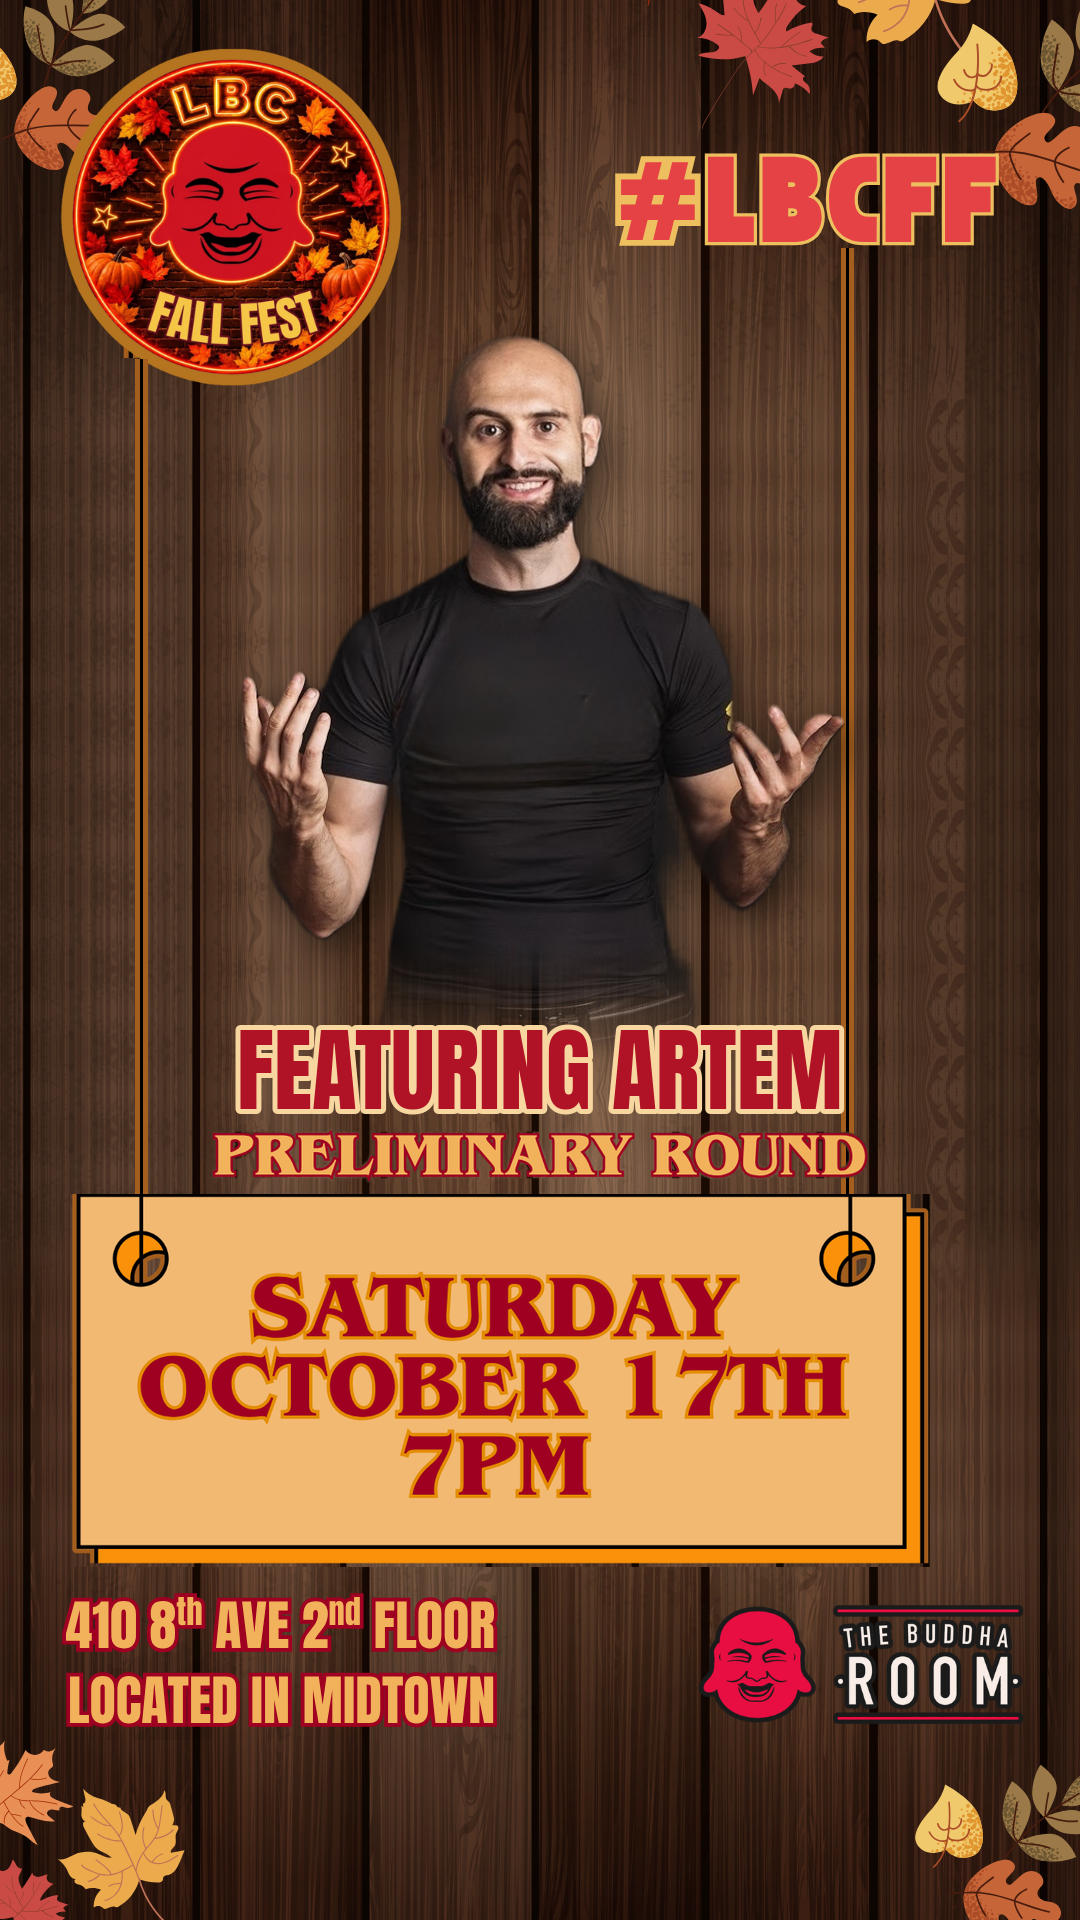
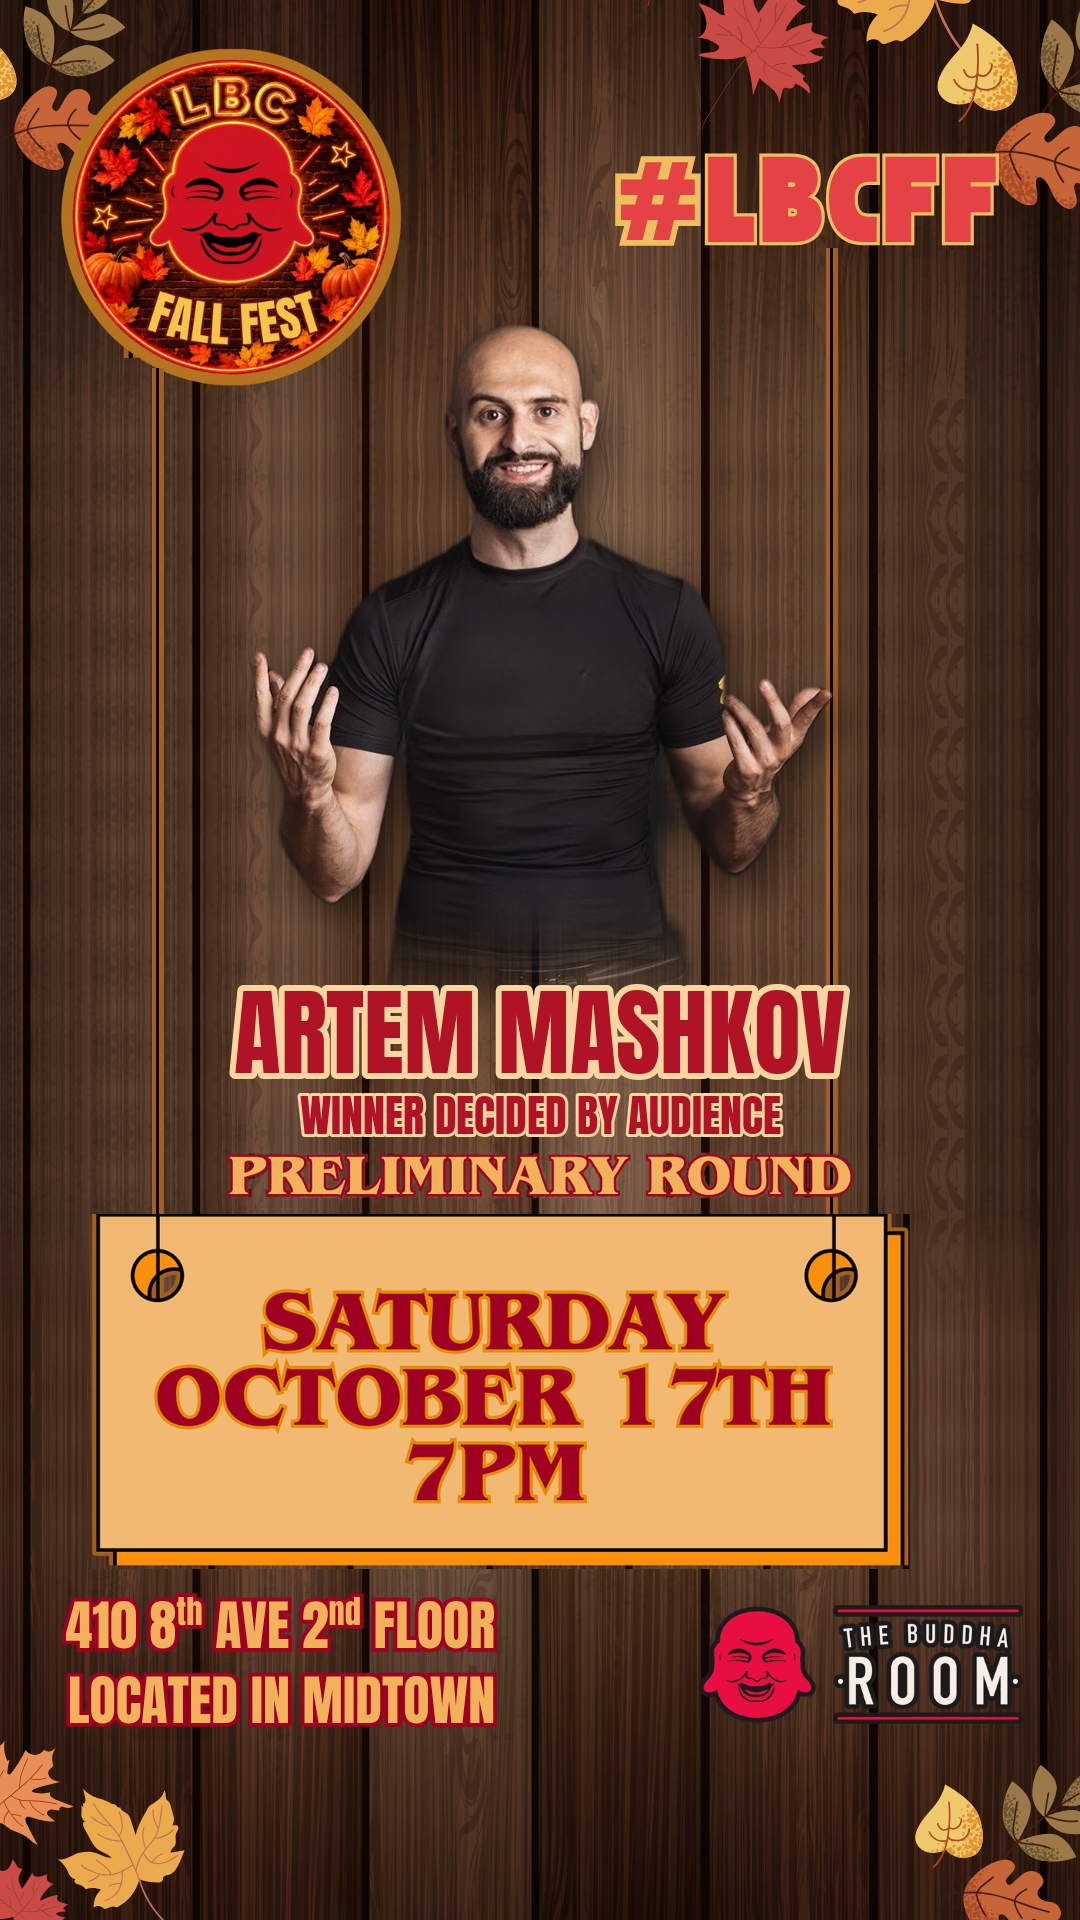
promo: flyer insert shows full name and audience-vote line
Claude-Session: https://claude.ai/code/session_011uqaQVvdk5VdkevmHxQqu7

Changed region(s): [[0.0611, 0.125, 0.8861, 0.8125], [0.3361, 0.1562, 0.6417, 0.3438], [0.4889, 0.375, 0.5194, 0.4062]]

diff --git a/flyer_insert.py b/flyer_insert.py
@@ -12,6 +12,7 @@ HERE = Path(__file__).resolve().parent
 OUT = HERE / "out"
 OUT.mkdir(exist_ok=True)
 FLYER = Image.open(HERE / "lbc_flyer.png").convert("RGB")  # 1080x1350
+NAME, TAGLINE = "ARTEM MASHKOV", "WINNER DECIDED BY AUDIENCE"
 ANTON = str(Path.home() / ".fonts/Anton-Regular.ttf")
 
 # Flyer regions (px, from the 1080x1350 original).
@@ -164,7 +165,8 @@ def feed():
     paste_prelim(c, prelim, sx + round(500 * s), sy - 50)
     person(c, 600, 1080 - 515, 412, fade=90)
     d = ImageDraw.Draw(c)
-    outlined(d, (sx + 8, 900), "FEATURING ARTEM", 66)
+    outlined(d, (sx + 8, 870), NAME, 66)
+    outlined(d, (sx + 10, 950), TAGLINE, 32)
     return c.convert("RGB")
 
 
@@ -175,12 +177,13 @@ def story():
     c.paste(wood(mid, blend_at=mid - 300), (0, TOP_END))
     c.paste(CLEAN.crop((0, BOTTOM_START, 1080, 1350)), (0, TOP_END + mid))
     c = c.convert("RGBA")
-    s, sx, sy = 0.86, 70, 1190
+    s, sx, sy = 0.82, 90, 1210
     prelim = place_sign(c, s, sx, sy, string_tops=("logo", 248))
-    person(c, 760, 1080 // 2 - 330, 300, fade=120)
+    person(c, 730, 1080 // 2 - 317, 290, fade=120)
     d = ImageDraw.Draw(c)
-    outlined(d, (540, 1000), "FEATURING ARTEM", 92, anchor="ma")
-    paste_prelim(c, prelim, 540, sy - 62)
+    outlined(d, (540, 960), NAME, 96, anchor="ma")
+    outlined(d, (540, 1082), TAGLINE, 44, anchor="ma")
+    paste_prelim(c, prelim, 540, sy - 60)
     return c.convert("RGB")
 
 

diff --git a/captions.md b/captions.md
@@ -27,5 +27,5 @@ Come early, laugh loud, I'll owe you a drink.
 ## Official-flyer versions (headshot inserted)
 
 `out/lbc_flyer_feat_1080x1350.png` (feed) and `out/lbc_flyer_feat_1080x1920.png` (story) are LBC's own flyer
-with Artem's headshot and a "Featuring Artem" line added. Rebuild with `python3 flyer_insert.py`.
+with Artem's headshot, "ARTEM MASHKOV" and "WINNER DECIDED BY AUDIENCE" added. Rebuild with `python3 flyer_insert.py`.
 The person mask (`headshot_alpha.npy`) came from MediaPipe's selfie_multiclass_256x256 model.
